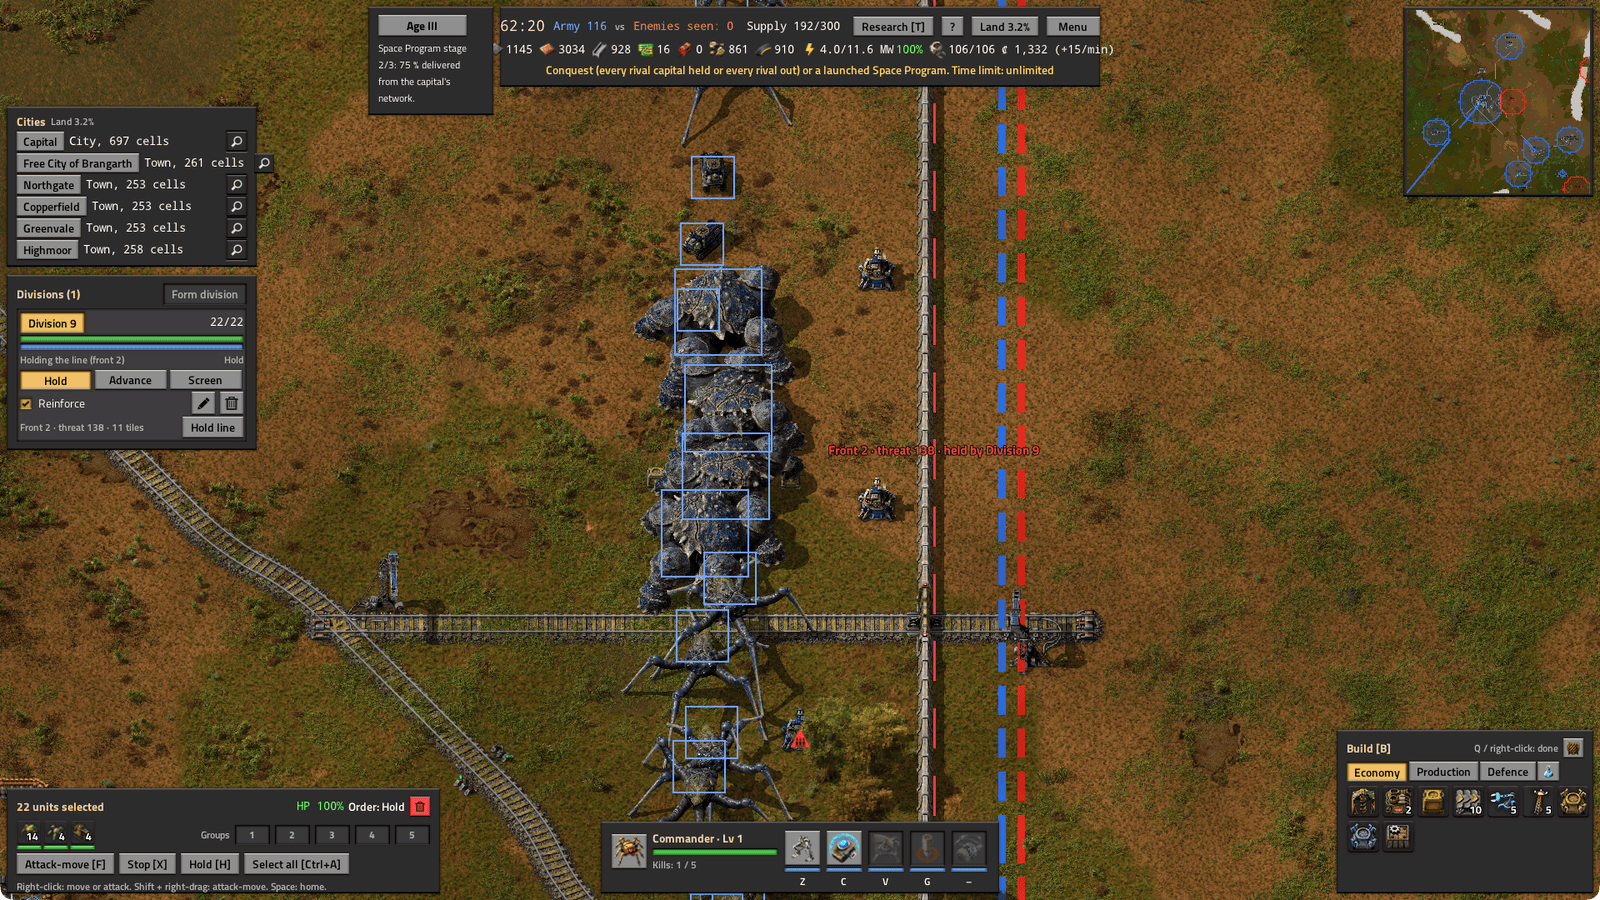
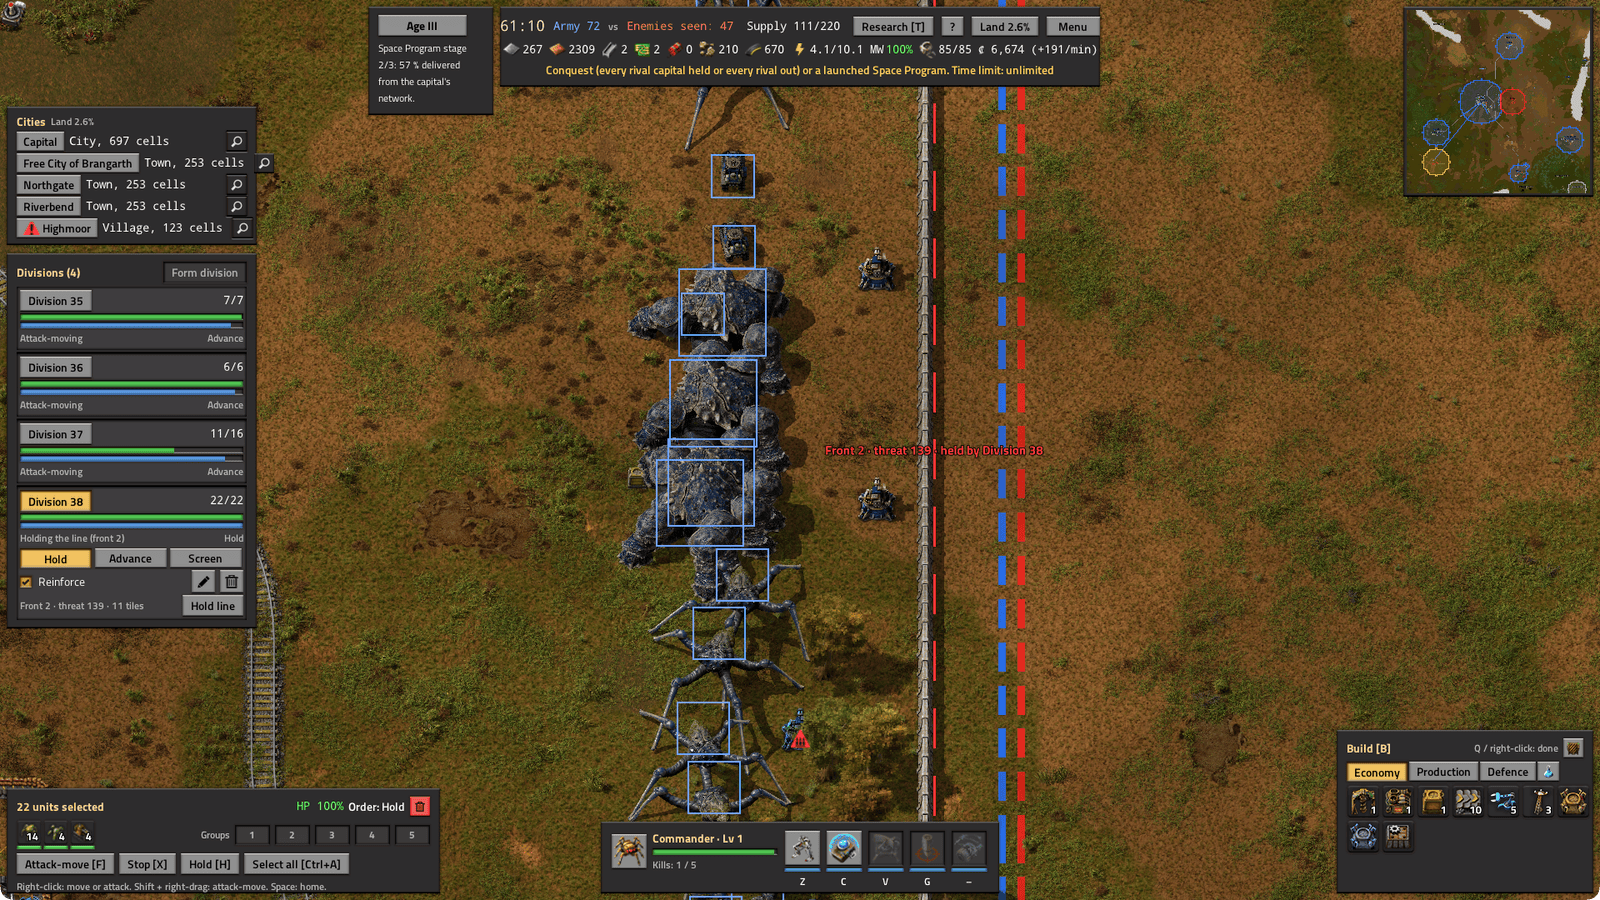
Showcase 0.1.1: release screenshots re-shot on the final tree fd75b4d (2.1 building tints, the lobby's Guided objectives switch, 1 px hauler lines, the 0.1.1 AI)
- Re-shot from a new 60-minute bake (seed 4242, 3 nations, 2048): 02 capital, 03 rail line, 05 front and fort belt,
  06 air, 07 artillery train, 08 Space Program, 15 city panel; Skirmish 13 Commander and abilities, 14 base; 01 lobby
  (now with the "Guided objectives" switch). 04, 09, 10, 11 and 12 stay (12 re-shot pixel-identical); the thumbnail
  stays (the new 13 is not better). Web versions in docs/media (1600x900, pngquant + oxipng), full size in
  build/showcase/full.
- Probes: lib.no_objectives switches the objective strip off before every Start and in close_panels (01 keeps the
  default "on" switch); 05 looks its front segment up again before the hold order (the fronts are rebuilt while the
  belt goes up, and the division stayed idle on the first take).
- Captions: 05 has no rail crossing in the new frame, 07's village is 45 tiles away (README gallery, Mod Portal text,
  docs/media/INDEX.md).

Claude-Session: https://claude.ai/code/session_01K1bJYSf3tQsD9Ls3EpVb2L

diff --git a/docs/media/INDEX.md b/docs/media/INDEX.md
@@ -1,7 +1,11 @@
 # Release media
 
 Staged screenshots of Factorio RTS for the README and the Factorio Mod Portal, the game area of a real English client
-(Factorio 2.1.23 with Space Age), with the mod's HUD. The files here are web versions: 1600×900 PNG, pngquant
+(Factorio 2.1.23 with Space Age), with the mod's HUD. Release 0.1.1 re-shot 01, 02, 03, 05, 06, 07, 08, 13, 14 and 15
+on HEAD fd75b4d (the 2.1 building tints, the lobby's "Guided objectives" switch, the 1 px hauler lines and the AI of
+0.1.1, on a new 60-minute bake); 04, 09, 10, 11 and 12 are the 0.1.0 shots, which nothing in 0.1.1 changed (12 came out
+pixel-identical). The scenes switch the guided objectives off before every Start (`showcase_lib.lua`,
+`lib.no_objectives`), so no shot shows the objective strip; 01 shows the switch in its default "on" state. The files here are web versions: 1600×900 PNG, pngquant
 (quality 70-90) and oxipng. The full-size 1920×1080 originals for the Mod Portal gallery are written to
 `build/showcase/full/` (not in git; `tools/showcase.sh full` lists them, `tools/showcase.sh web` re-encodes this folder
 from them). No human played: `tools/showcase.sh all`
@@ -18,9 +22,9 @@ bake`). Alternate takes land in `build/showcase/alt/`. `REVIEW.md` is the review
 | `02-capital.png` | The capital at city tier: districts, hubs, rail depots, stockpiles and haulers on the move; Age III badge, treasury and supply on the strip | `nation`, `tools/probes/showcase_nation_scenes.lua`, scene `02-capital` |
 | `03-rail-line.png` | A freight train leaving the capital's depot on an open line to a town | `nation`, `showcase_nation_scenes.lua`, scene `03-rail-line` |
 | `04-division-battle.png` | A division of Walker Mk2s, heavies, armoured cars and artillery walkers (selected: its card with the stances, the unit cards) meets an AI 1 force: shell bursts, the kill feed | `nation`, `showcase_nation_scenes.lua`, scene `04-division-battle` |
-| `05-front-fort-belt.png` | Front 2 against an AI 1 town (the dashed border lines and the label "Front 2 · threat T · held by Division N"), the fort belt built along it (a wall with a gate where the rail crosses, turrets behind it) and the division holding the line behind the wall (its card: "Holding the line (front 2)") | `nation`, `showcase_nation_scenes.lua`, scene `05-front-fort-belt` |
+| `05-front-fort-belt.png` | Front 2 against an AI 1 town (the dashed border lines and the label "Front 2 · threat T · held by Division N"), the fort belt built along it (a wall 1 tile behind the border, turrets behind it) and the division holding the line behind the wall (its card: "Holding the line (front 2)") | `nation`, `showcase_nation_scenes.lua`, scene `05-front-fort-belt` |
 | `06-air.png` | The capital's airfield with scout planes, bombers and interceptors on patrol (selected), the AA turret firing at AI 1 bombers coming in from the right | `nation`, `showcase_nation_scenes.lua`, scene `06-air` |
-| `07-artillery-train.png` | An armoured artillery train in Bombard (left third) at a depot 12 tiles behind a front, the dashed borders and the yellow front line crossing the frame, and a compact AI 1 village 46 tiles away (right third: its centre, houses, turrets, barracks, radar) with a rail shell bursting at its edge; the train panel ("Bombard [B]", "Shells: 18 · last target: Turret (37 tiles)") | `nation`, `showcase_nation_scenes.lua`, scene `07-artillery-train` |
+| `07-artillery-train.png` | An armoured artillery train in Bombard (left third) at a depot 12 tiles behind a front, the dashed borders and the yellow front line crossing the frame, and a compact AI 1 village 45 tiles away (right third: its centre, houses, turrets, barracks, radar) with a rail shell bursting at its edge; the train panel ("Bombard [B]", "Shells: 19 · next shot in 9 s · last target: Turret (37 tiles)") | `nation`, `showcase_nation_scenes.lua`, scene `07-artillery-train` |
 | `08-space-program.png` | The city ledger with the Space Program at stage 2/3 (the goods delivered so far, Rush, the automation row) next to the Launch complex and its progress label | `nation`, `showcase_nation_scenes.lua`, scene `08-space-program` |
 | `09-strategic-map.png` | The map view around the capital: region names, the capital and towns with their land, the AI 1 town across the front, a city-state, rail lines, depot labels and the division marker at the front | `nation`, `showcase_nation_scenes.lua`, scene `09-strategic-map` |
 | `10-diplomacy.png` | The diplomacy panel: AI 1 at war (score, weariness), AI 2 at peace, a city-state, our war and AI 1's peace offer with Accept and Decline (also as the offer bar above it) | `nation`, `showcase_nation_scenes.lua`, scene `10-diplomacy` |
@@ -29,7 +33,7 @@ bake`). Alternate takes land in `build/showcase/alt/`. `REVIEW.md` is the review
 | `13-commander-abilities.png` | Skirmish: the Commander (selected) casts Shield on the army around it and an Artillery strike lands in its target ring; the ability bar shows both cooldowns | `skirmish`, `tools/probes/showcase_skirmish.lua`, scene `13-commander-abilities` |
 | `14-skirmish-base.png` | Skirmish: the factory base built by the AI in 14 minutes, the natural hub (selected) with its stockpile policy (Export above 20) and an army block at the rally point | `skirmish`, `showcase_skirmish.lua`, scene `14-skirmish-base` |
 | `15-city-panel.png` | The capital's city panel (residents, happiness, needs, workforce, draft, make targets, Hire) and its stockpile policy panel | `nation`, `showcase_nation_scenes.lua`, scene `15-city-panel` |
-| `thumbnail-source.png` | The 640×640 square of the full-size `13-commander-abilities.png` that the mod portal thumbnail is scaled from (full resolution, web-encoded) | `tools/showcase.sh thumb` |
+| `thumbnail-source.png` | The 640×640 square of the full-size `13-commander-abilities.png` of 0.1.0 that the mod portal thumbnail is scaled from (full resolution, web-encoded); the 0.1.1 take of 13 is not better, so the thumbnail stays | `tools/showcase.sh thumb` |
 | `../../mods/factorio-rts/thumbnail.png` | 144×144 thumbnail: the Shield rings around the Commander and the Artillery strike bursting in its ring (that square scaled to 144×144) | `tools/showcase.sh thumb` (`THUMB_SHOT`, `THUMB_CROP`) |
 
 Probes: `tools/probes/showcase_lib.lua` (steps, scenes, captures, staging helpers), `showcase_lobby.lua`,

diff --git a/README.md b/README.md
@@ -13,8 +13,8 @@ Contents: [Gallery](#gallery) · [Highlights](#highlights) · [Requirements](#re
 | | | |
 |---|---|---|
 | ![Lobby](docs/media/01-lobby.png)<br>The lobby: a Nation match with 6 nations on a 4096 world, choosing the victory mode | ![Capital](docs/media/02-capital.png)<br>A capital at City tier in Age III: districts, housing, farms, the Launch complex and rail depots | ![Rail line](docs/media/03-rail-line.png)<br>A freight train leaves the capital's depot for a town, past the Launch complex |
-| ![Division battle](docs/media/04-division-battle.png)<br>A division of Mk2 walkers, heavies, armoured cars and artillery attack-moves into an AI army | ![Front and fort belt](docs/media/05-front-fort-belt.png)<br>A division holds a front behind a fort belt, with a gate where the rail crosses | ![Air](docs/media/06-air.png)<br>Planes over the capital's airfield while its AA turret fires at incoming bombers |
-| ![Artillery train](docs/media/07-artillery-train.png)<br>An armoured artillery train in Bombard shells an enemy village 46 tiles away | ![Space Program](docs/media/08-space-program.png)<br>The city ledger in Age III: Space Program deliveries, rare resources and automation | ![Strategic map](docs/media/09-strategic-map.png)<br>The strategic map: your cities and land, a rival town across the front, a city-state, rails and divisions |
+| ![Division battle](docs/media/04-division-battle.png)<br>A division of Mk2 walkers, heavies, armoured cars and artillery attack-moves into an AI army | ![Front and fort belt](docs/media/05-front-fort-belt.png)<br>A division holds a front behind a fort belt: a wall with turrets along the border | ![Air](docs/media/06-air.png)<br>Planes over the capital's airfield while its AA turret fires at incoming bombers |
+| ![Artillery train](docs/media/07-artillery-train.png)<br>An armoured artillery train in Bombard shells an enemy village 45 tiles away | ![Space Program](docs/media/08-space-program.png)<br>The city ledger in Age III: Space Program deliveries, rare resources and automation | ![Strategic map](docs/media/09-strategic-map.png)<br>The strategic map: your cities and land, a rival town across the front, a city-state, rails and divisions |
 | ![Diplomacy](docs/media/10-diplomacy.png)<br>The diplomacy panel (F4): a war, a peace, a city-state and an AI's white-peace proposal | ![Market](docs/media/11-market.png)<br>The market panel (M): treasury, tax, prices, city-state trade and a contract | ![4096 world](docs/media/12-world-4096.png)<br>A fully generated 4096×4096 world with six nations, regions, rivers and mountain ranges |
 | ![Commander and abilities](docs/media/13-commander-abilities.png)<br>Skirmish: the Commander's Shield and an Artillery strike, with the ability bar | ![Skirmish base](docs/media/14-skirmish-base.png)<br>Skirmish: a factory base, an army at the rally point and a hub's export policy at the natural | ![City panel](docs/media/15-city-panel.png)<br>The city panel of a capital: land, residents, happiness, needs, workforce, draft and make targets |
 

diff --git a/docs/release/mod-portal.md b/docs/release/mod-portal.md
@@ -81,9 +81,9 @@ Start a **new Freeplay game**; the RTS lobby opens as soon as you join. Press **
 2. A capital at City tier in Age III: districts, housing, farms, the Launch complex and rail depots.
 3. A freight train leaves the capital's depot for a town, past the Launch complex.
 4. A division of Mk2 walkers, heavies, armoured cars and artillery attack-moves into an AI army.
-5. A division holds a front behind a fort belt, with a gate where the rail crosses.
+5. A division holds a front behind a fort belt: a wall with turrets along the border.
 6. Planes over the capital's airfield while its AA turret fires at incoming bombers.
-7. An armoured artillery train in Bombard shells an enemy village 46 tiles away.
+7. An armoured artillery train in Bombard shells an enemy village 45 tiles away.
 8. The city ledger in Age III: Space Program deliveries, rare resources and automation.
 9. The strategic map: your cities and land, a rival town across the front, a city-state, rails and divisions.
 10. The diplomacy panel (F4): a war, a peace, a city-state and an AI's white-peace proposal.
